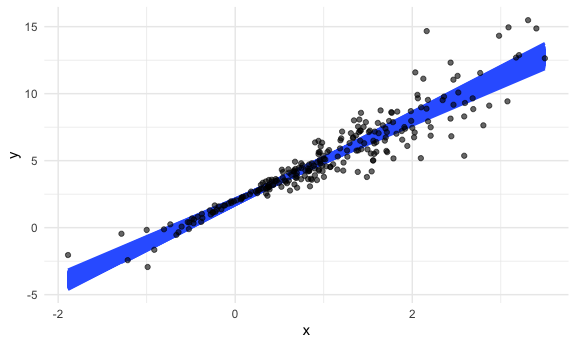
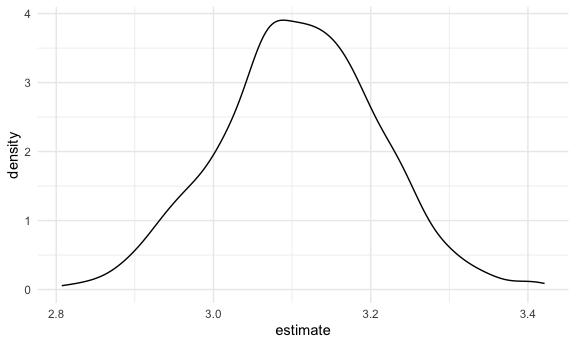
airbnb bootstrapping!

diff --git a/03_bootstrapping.md b/03_bootstrapping.md
@@ -143,6 +143,17 @@ boot_strap_df |>
     ## 1 (Intercept)     1.93 0.0747
     ## 2 x               3.11 0.101
 
+``` r
+boot_strap_df |> 
+  select(strap_number, results) |> 
+  unnest(results) |> 
+  filter(term == "x") |> 
+  ggplot(aes(x = estimate)) + 
+  geom_density()
+```
+
+<img src="03_bootstrapping_files/figure-gfm/unnamed-chunk-10-1.png" alt="" width="90%" />
+
 look at the results more
 
 ``` r
@@ -156,7 +167,7 @@ boot_strap_df |>
 
     ## `geom_smooth()` using formula = 'y ~ x'
 
-<img src="03_bootstrapping_files/figure-gfm/unnamed-chunk-10-1.png" alt="" width="90%" />
+<img src="03_bootstrapping_files/figure-gfm/unnamed-chunk-11-1.png" alt="" width="90%" />
 
 Quick notes.
 
@@ -165,3 +176,75 @@ boot_straps =
   sim_df_nonconst |> 
   modelr::bootstrap(n = 1000)
 ```
+
+## Airbnb
+
+``` r
+data("nyc_airbnb")
+
+nyc_airbnb = 
+  nyc_airbnb |> 
+  mutate(stars = review_scores_location / 2) |> 
+  rename(
+    borough = neighbourhood_group,
+    neighborhood = neighbourhood) |> 
+  filter(borough != "Staten Island") |> 
+  drop_na(price, stars) |> 
+  select(price, stars, borough, neighborhood, room_type)
+```
+
+This doesn’t look good ..
+
+``` r
+nyc_airbnb |> 
+  ggplot(aes(x = stars, y = price, color = room_type)) + 
+  geom_point()
+```
+
+<img src="03_bootstrapping_files/figure-gfm/unnamed-chunk-14-1.png" alt="" width="90%" />
+
+Boot strap!!
+
+``` r
+airbnb_bootstrap_df = 
+  nyc_airbnb |> 
+  filter(borough == "Manhattan") |> 
+  modelr::bootstrap(n = 1000) |> 
+  mutate(
+    model_fits = map(strap, \(df) lm(price ~ stars + room_type, data = df)),
+    results = map(model_fits, broom::tidy)
+  )
+```
+
+are these coefficients close enough to Normal that I can trust default
+inference?
+
+``` r
+airbnb_bootstrap_df |> 
+  select(results) |> 
+  unnest(results) |> 
+  filter(term == "stars") |>  
+  ggplot(aes(x = estimate)) + 
+  geom_density()
+```
+
+<img src="03_bootstrapping_files/figure-gfm/unnamed-chunk-16-1.png" alt="" width="90%" />
+
+CI for stars slope
+
+``` r
+airbnb_bootstrap_df |> 
+  select(results) |> 
+  unnest(results) |> 
+  filter(term == "stars") |> 
+  summarize(
+    slope_estimate = mean(estimate),
+    ci_lb = quantile(estimate, 0.025),
+    ci_ub = quantile(estimate, 0.975)
+  )
+```
+
+    ## # A tibble: 1 × 3
+    ##   slope_estimate ci_lb ci_ub
+    ##            <dbl> <dbl> <dbl>
+    ## 1           27.2  14.9  37.6
